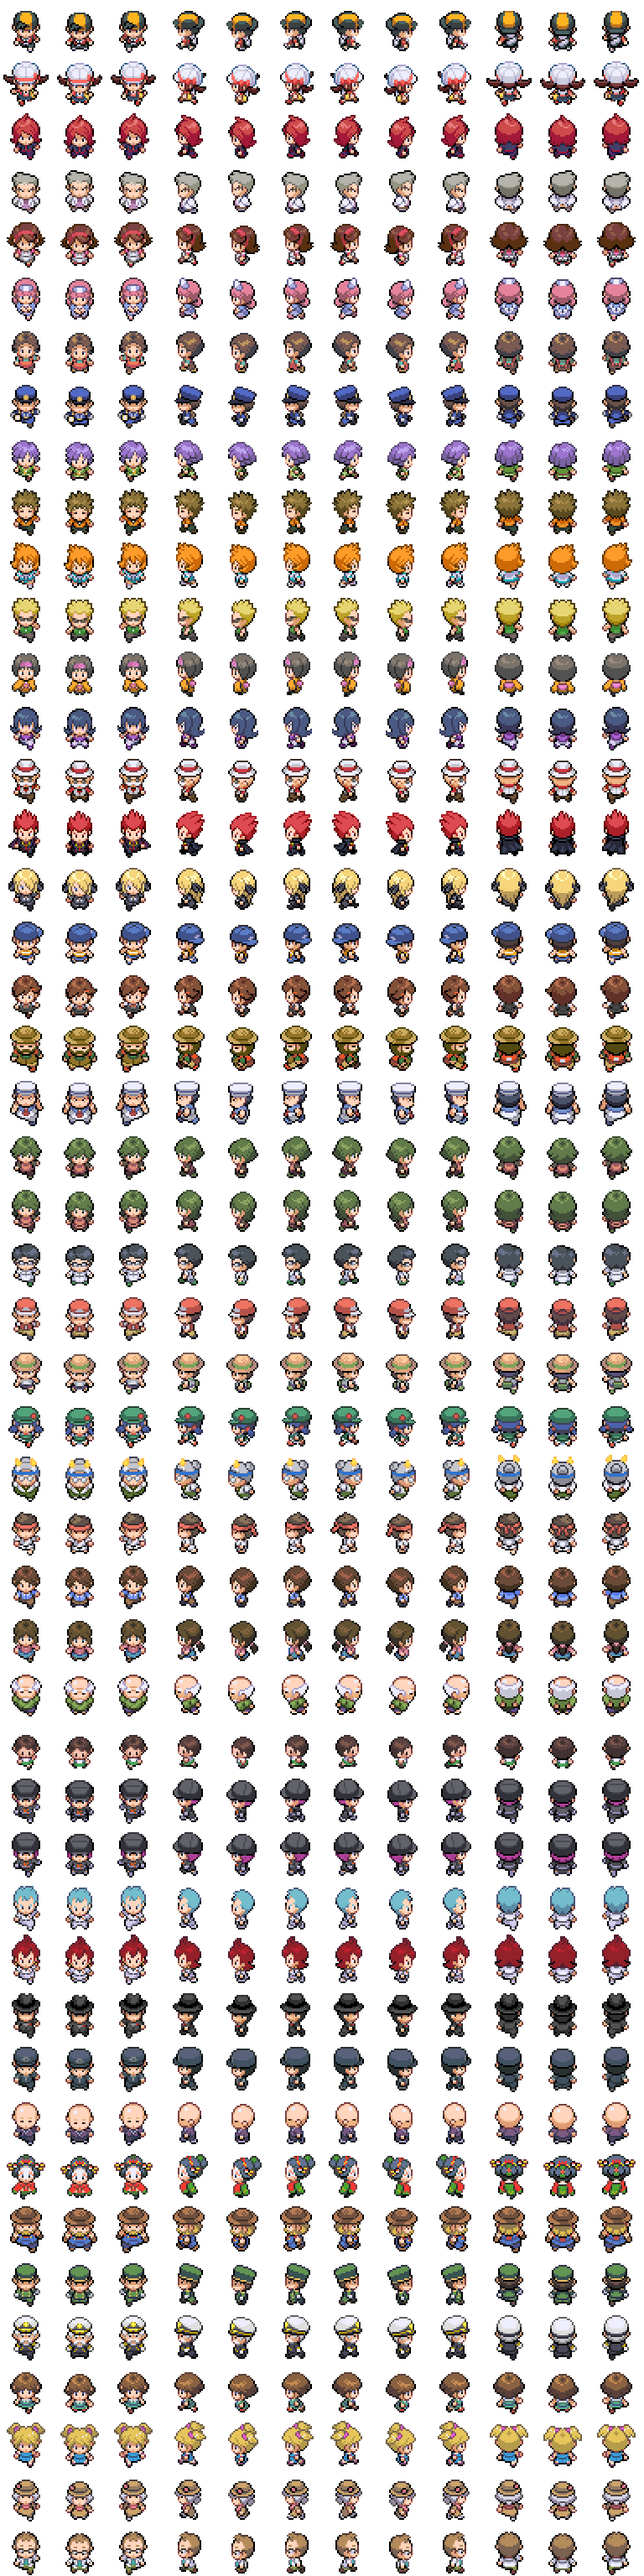
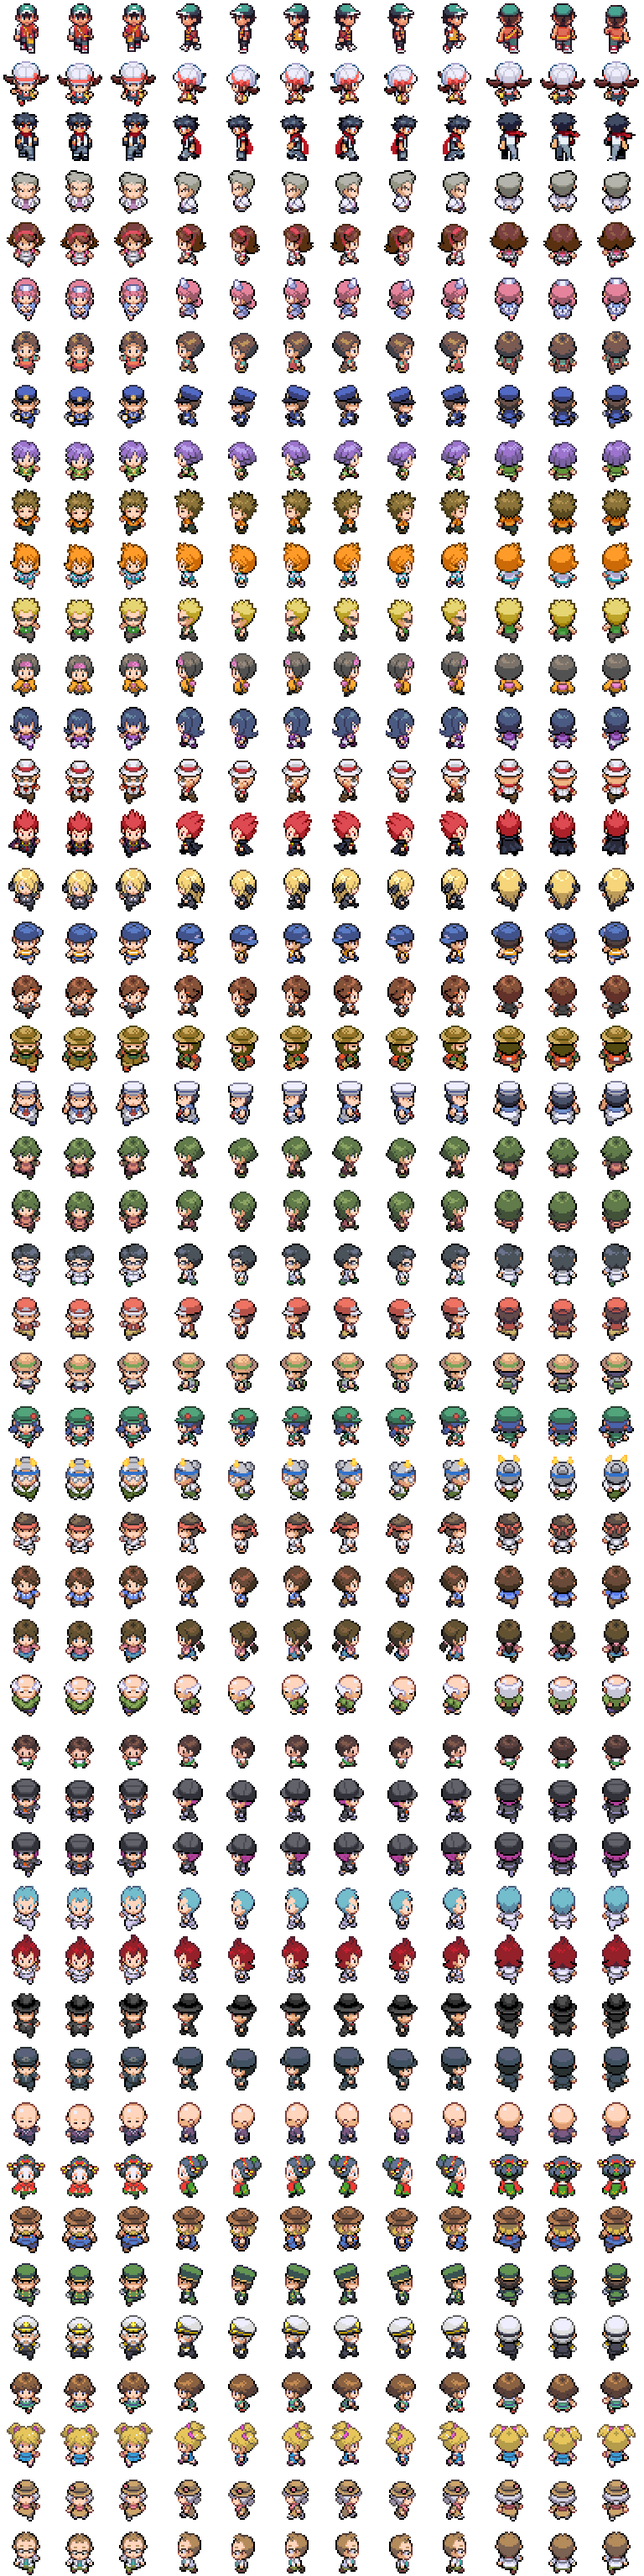
feat(odyssee): essai PixelLab — kit de maison redessiné à 16 px, joueur et Théo originaux [skip changelog]
- Kit « maison » généré par PixelLab directement à 16 px par case : socle en pierre, rebord du toit,
  fenêtres et porte allumées la nuit, jardinières, lanterne, cheminée.
- Le joueur (garçon) et Théo remplacent leurs sprites HeartGold provisoires : quatre directions,
  marche en trois images.
- Vitrine : Théo dans les quatre directions, rangées plus espacées.
- Règles : méthode PixelLab qui fonctionne, sources gardées dans assets/graphics/pixellab/.

Claude-Session: https://claude.ai/code/session_01RNJ5Y5KLSaMx3FdfXRfks8

diff --git a/odyssee/js/atelier/vitrine.js b/odyssee/js/atelier/vitrine.js
@@ -6,7 +6,7 @@ import { SPRITES } from '../data/sprites.js';
 import { REGLES } from '../data/regles.js';
 
 export function buildVitrine() {
-  const W = 60, H = 40;
+  const W = 60, H = 50;
   const m = new GameMap('vitrine', W, H, { name: 'Vitrine de l’atelier', fill: T.GRASS, music: 'town' });
   m.rect(0, 0, W - 1, 0, T.TREE); m.rect(0, H - 1, W - 1, H - 1, T.TREE); m.rect(0, 0, 0, H - 1, T.TREE); m.rect(W - 1, 0, W - 1, H - 1, T.TREE);
   m.zone(0, 0, W - 1, H - 1, { name: 'Vitrine de l’atelier', music: 'town' });
@@ -17,9 +17,11 @@ export function buildVitrine() {
     }
     // trottoir devant la rangée
     m.rect(1, y + d, W - 2, y + d + 1, T.PAVE, [T.GRASS]);
-    return y + d + 3;
+    return y + d + 6;
   };
   let y = 2;
+  // personnages principaux, dans les quatre directions (le joueur démarre en 9, 6)
+  ['down', 'left', 'right', 'up'].forEach((dir, i) => m.npc({ id: 'vitrine:theo' + i, x: 12 + i, y: 6, sprite: 'theo', dir, text: ['Théo.'] }));
   y = rangee(y, [['house', { roof: 'red', label: 'Maison' }], ['house2', { roof: 'blue', label: 'Maison large' }], ['bighouse', { roof: 'green', label: 'Grande maison' }],
     ['tower', { roof: 'brown', label: 'Tour' }], ['house', { kit: 'chalet', label: 'Chalet' }], ['house', { kit: 'pecheur', label: 'Pêcheur' }], ['house2', { kit: 'port', label: 'Capitainerie' }]]);
   y = rangee(y, [['center', {}], ['mart', {}], ['gym', {}], ['lab', {}], ['league', {}]]);

diff --git a/odyssee/js/data/regles.js b/odyssee/js/data/regles.js
@@ -33,7 +33,7 @@ export const REGLES = {
     "cellules": ["mur", "fenetre", "fenetre_nuit", "socle", "porte", "porte_nuit", "linteau", "cote", "toit", "rebord", "faite", "cheminee", "enseigne_g", "enseigne_d", "fleurs", "lampe"],
     "grille": [["mur", "fenetre", "fenetre_nuit", "socle"], ["porte", "porte_nuit", "linteau", "cote"], ["toit", "rebord", "faite", "cheminee"], ["enseigne_g", "enseigne_d", "fleurs", "lampe"]],
     "variantes": {
-      "maison":   { "socle": "mur", "rebord": "toit" },
+      "maison":   { "faite": "toit" },
       "chalet":   {},
       "pecheur":  { "socle": "mur", "linteau": null, "cote": "mur", "faite": "toit", "cheminee": null },
       "centre":   { "socle": "mur", "porte": [1, 1], "porte_nuit": [2, 1], "fenetre_bas": [0, 1], "linteau": null, "cote": [3, 1], "faite": "toit", "cheminee": [3, 2], "toit_lucarne": [2, 2], "toit_plat": true },

diff --git a/docs/ODYSSEE-GRAPHISME.md b/docs/ODYSSEE-GRAPHISME.md
@@ -90,6 +90,18 @@ Pour un générateur (Retro Diffusion, PixelLab…), décrire le style plutôt q
 « top-down RPG, DS pixel art, 16 px tiles, 3/4 view, light from top-left, dark colored outlines, limited palette,
 transparent background », et imposer la palette `odyssee/atelier/palette.png` quand l'outil le permet.
 
+**PixelLab (essai du 2 novembre 2026, sources dans `assets/graphics/pixellab/`).** Ce qui marche :
+- *Kit de façade* : « Create Image (Pro) » sur une toile de **16 × 16** (10 générations, 64 propositions), avec l'ancien
+  kit en référence et les 16 pièces numérotées dans l'ordre de la grille : chaque proposition est une pièce, et on
+  obtient 4 kits complets (jour, usé, lierre, nuit). Enlever le fond gris des objets et fusionner les couleurs presque
+  identiques (le générateur en laisse des centaines). Une toile plus grande (64 × 64) donne des pièces trop fines,
+  que la réduction à 16 px délave.
+- *Personnages* : « create_character » en mode v3, taille 32 (2 générations, 8 directions), puis la marche
+  `walking-4-frames` direction par direction (1 génération chacune ; la droite est le miroir de la gauche). Debout =
+  image 0 de la marche, pas = images 1 et 3 ; vérifier chaque image (une peut être tournée ou perdre un détail).
+- Les images ne se téléchargent pas depuis l'espace de travail de Claude : elles passent par l'atelier de PixelLab
+  (`join … --as sheet`), dont l'aperçu porte un bandeau de 18 px et un fond `#1f252c` à retirer.
+
 ## 5. Outils
 
 ```
